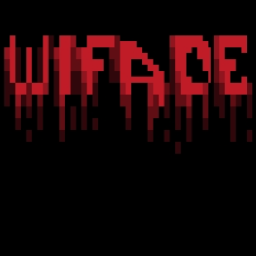
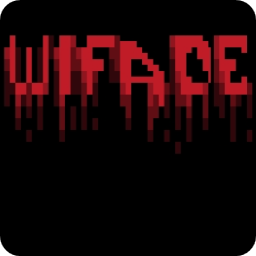
fix: update README.md formatting and image references; add legacy image file

diff --git a/README.md b/README.md
@@ -4,10 +4,10 @@
 
 **Command-Line WiFi Manager with Integrated Brute-Forcer.**
 
-**Linux and macOS support coming soon!**
+_Linux and macOS support coming soon!_
 
 
-<img src="img/1.jpg" style="width: 700px; height: auto;" >
+<img src="img/icon.png" style="width: 220px; height: auto;" >
 
 
 [![GitHub all releases](https://img.shields.io/github/downloads/anonfaded/wifade/total?label=Downloads&logo=github)](https://github.com/anonfaded/wifade/releases/)
@@ -57,29 +57,6 @@ wifade
 ### CLI Mode (Quick Actions)
 
 Use flags to perform actions instantly without entering the interactive menu. This is perfect for scripting or quick checks.
-
-```bash
-# Display comprehensive Wi-Fi status
-wifade -Status
-
-# Scan for and list available networks
-wifade -Scan
-
-# Get your private and public IP addresses
-wifade -IP
-wifade -PublicIP
-
-# Connect to a network directly
-# (Use quotes if the SSID has spaces)
-wifade "My Network Name" mypassword123
-wifade -Connect "My Network Name" mypassword123
-
-# See a quick reference of all commands
-wifade -List
-
-# Show detailed help documentation
-wifade -Help
-```
 
 ```bash
 # Display comprehensive Wi-Fi status
@@ -147,7 +124,7 @@ Options:
   -Help         Show detailed help documentation
 ```
 
-*Linux and macOS usage instructions coming soon.*
+_Linux and macOS usage instructions coming soon._
 
 ## 💀 Attack Mode
 
@@ -158,9 +135,9 @@ Wifade's password security testing features are accessible from the interactive 
 
 Upon entering Attack Mode for the first time, you will be required to accept an **ethical usage disclaimer**.
 
-<!-- markdownlint-disable MD033 -->
+
 <details>
-<summary>🛠 Building from Source (Windows)</summary>
+    <summary>🛠 Building from Source (Windows)</summary>
 
 If you want to build the project yourself, follow these steps:
 
@@ -179,9 +156,10 @@ If you want to build the project yourself, follow these steps:
 
 4. The compiled executables (`wifade.exe`, `WifadeCore.exe`) and other assets will be placed in the `build/` directory.
 
-<!-- markdownlint-enable MD033 -->
+
 </details>
-*Linux/macOS build instructions will be added when those versions are released.*
+
+_Linux/macOS build instructions will be added when those versions are released._
 
 ## ⚖ Disclaimer
 
